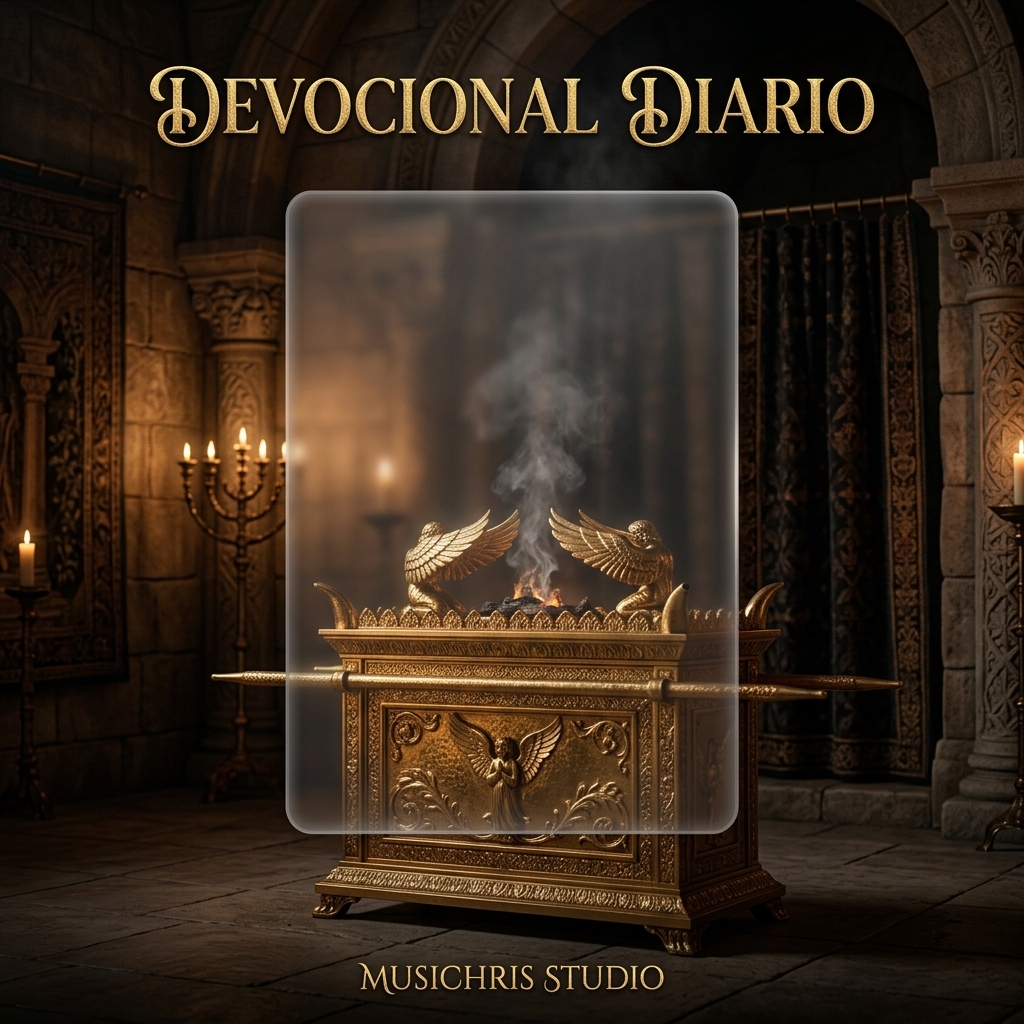
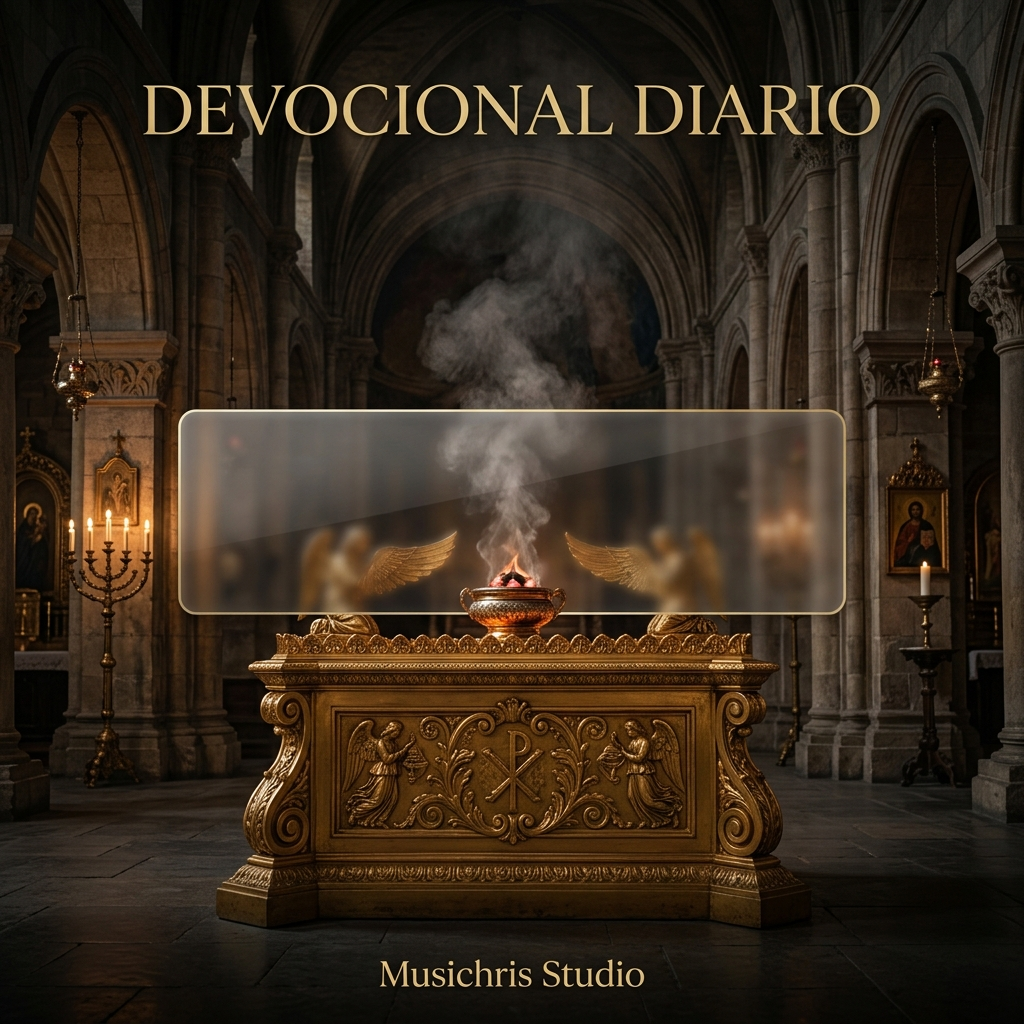
refactor: implemented millimetric calibration and corrected background 10

diff --git a/generador_devocionales.py b/generador_devocionales.py
@@ -3,21 +3,26 @@ import os
 from PIL import Image, ImageDraw, ImageFont
 import textwrap
 
-# --- CONFIGURACIÓN DE ÁREA (REPOSITORIO DE CRISTAL) ---
-# Basado en la imagen de 1024x1024
-RECT_X1, RECT_Y1 = 180, 340
-RECT_X2, RECT_Y2 = 844, 705
-RECT_WIDTH = RECT_X2 - RECT_X1
-RECT_HEIGHT = RECT_Y2 - RECT_Y1
-CENTER_X = 512
-CENTER_Y = RECT_Y1 + (RECT_HEIGHT / 2)
+# --- CONFIGURACIÓN ESTRATÉGICA POR MES (CALIBRACIÓN AL MILÍMETRO) ---
+# Formato: "mes": (x1, y1, x2, y2)
+CALIBRACION = {
+    "default": (180, 340, 844, 705),
+    "05": (180, 340, 844, 705), # Mayo
+    "06": (180, 340, 844, 705), # Junio
+    "07": (240, 395, 750, 635), # Julio (Ajustado al cristal de la Lira)
+    "08": (220, 255, 770, 500), # Agosto (Shofar - cristal más arriba)
+    "09": (180, 320, 825, 680), # Septiembre (Biblia)
+    "10": (175, 400, 825, 600), # Octubre (Altar - cristal horizontal central)
+    "11": (280, 335, 860, 695), # Noviembre (Trigo)
+    "12": (180, 280, 820, 675), # Diciembre (Pesebre)
+}
 
 # --- CONFIGURACIÓN DE RUTAS ---
 ASSETS_DIR = "Devocional/assets/fondos"
 JSON_PATH = "Devocional/devocionales_2026.json"
 OUTPUT_DIR = "Devocional/publicaciones"
 FONT_PATH = "Devocional/assets/fonts/base_font.ttf"
-DEFAULT_BG = "05.png" # Mayo como backup
+DEFAULT_BG = "05.png"
 
 if not os.path.exists(OUTPUT_DIR):
     os.makedirs(OUTPUT_DIR)
@@ -49,19 +54,24 @@ def generar_imagenes_premium():
             
         print(f"🎨 Usando fondo: {bg_path} para {item['fecha']}")
 
+        # Obtener calibración para el mes
+        x1, y1, x2, y2 = CALIBRACION.get(mes, CALIBRACION["default"])
+        rect_width = x2 - x1
+        rect_height = y2 - y1
+        center_y = y1 + (rect_height / 2)
+
         # --- PANTALLA 1: VERSÍCULO ---
         img1 = Image.open(bg_path).convert("RGBA")
         draw1 = ImageDraw.Draw(img1)
         
-        font_ref = ImageFont.truetype(FONT_PATH, 45)  # Referencia (Salmo...)
-        font_body = ImageFont.truetype(FONT_PATH, 32) # Texto bíblico
+        font_ref = ImageFont.truetype(FONT_PATH, 45)
+        font_body = ImageFont.truetype(FONT_PATH, 32)
         
-        # Calcular altura total para centrar verticalmente en el cristal
         ref_lines = textwrap.wrap(item['versiculo'], width=25)
         body_lines = textwrap.wrap(f"\"{item['texto']}\"", width=40)
         
         total_h = get_text_height(draw1, ref_lines, font_ref, 15) + get_text_height(draw1, body_lines, font_body, 12) + 20
-        y_cursor = CENTER_Y - (total_h / 2)
+        y_cursor = center_y - (total_h / 2)
 
         # Dibujar Referencia en Dorado Suave
         y_cursor = draw_styled_text(draw1, item['versiculo'], font_ref, (218, 165, 32), y_cursor, 25)
@@ -80,7 +90,7 @@ def generar_imagenes_premium():
 
         ref_body_lines = textwrap.wrap(item['reflexion'], width=45)
         total_h2 = get_text_height(draw2, [item['titulo']], font_title, 20) + get_text_height(draw2, ref_body_lines, font_reflect, 10) + 20
-        y_cursor2 = CENTER_Y - (total_h2 / 2)
+        y_cursor2 = center_y - (total_h2 / 2)
 
         # Dibujar Título
         y_cursor2 = draw_styled_text(draw2, item['titulo'], font_title, (218, 165, 32), y_cursor2, 30)